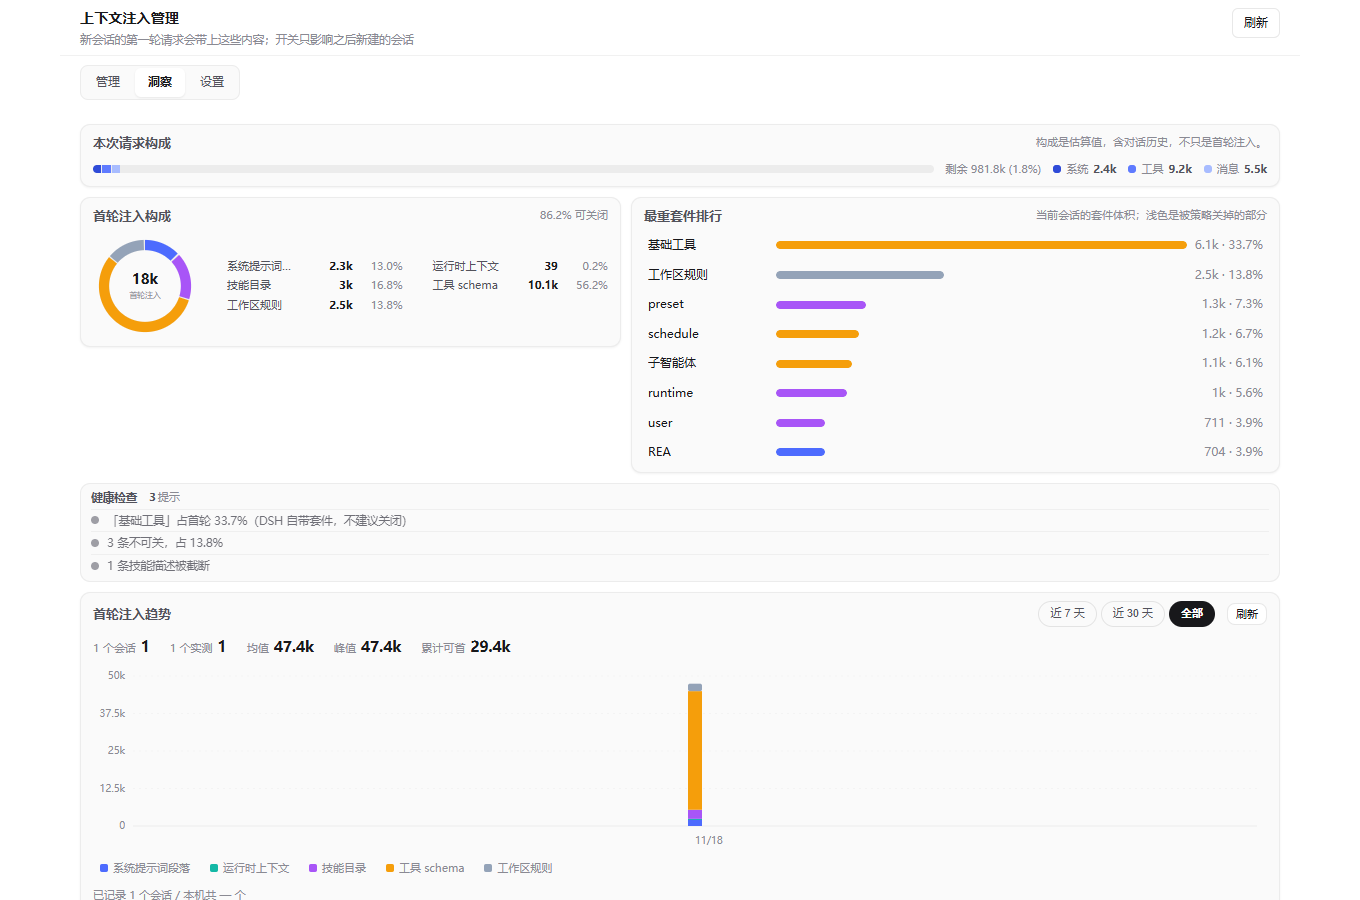
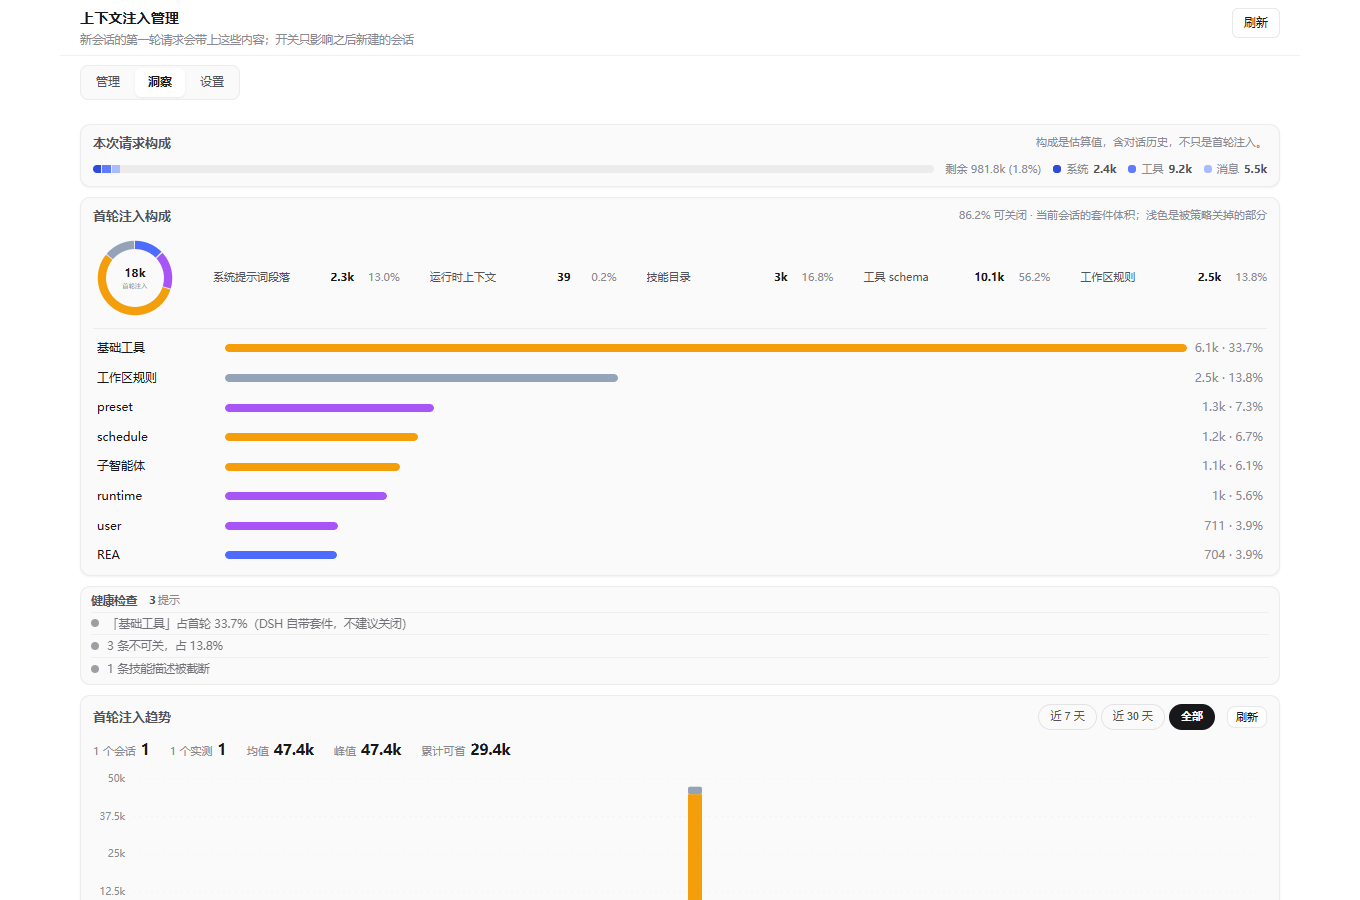
style(insights): 环图与排行合成一张卡、图例一行五列、修 0 条提示 (2.2.7)
[dsh:session=cd521c01] [dida:6afcf57ae4b014475ea3a12a]

diff --git a/client.js b/client.js
@@ -815,6 +815,13 @@ body[data-ds-dark-theme] .ci-root{
 .ci-manage-head .sp{flex:1 1 auto}
 .ci-donut-compact{gap:10px}
 .ci-donut-legend-grid{display:grid;grid-template-columns:repeat(2,minmax(0,1fr));gap:2px 14px}
+/* the ring row sits on top of the ranking inside one card: side by side the two
+   columns never match in height, and the ring's legend gets squeezed */
+.ci-compose-top{display:flex;align-items:center;gap:16px 20px;min-width:0;padding:2px 0 8px;border-bottom:1px solid var(--ci-line2)}
+.ci-compose-top .ci-donut-legend{flex:1 1 auto;min-width:0}
+.ci-compose-top .ci-donut-legend-grid{grid-template-columns:repeat(auto-fit,minmax(190px,1fr))}
+.ci-compose-top .ci-donut-row{grid-template-columns:10px minmax(0,1fr) minmax(44px,auto) 40px}
+@container (max-width:720px){.ci-compose-top{flex-wrap:wrap}}
 /* settings: one hairline splits two questions inside a card */
 .ci-card>.ci-seg{align-self:flex-start}
 .ci-rule{height:1px;background:var(--ci-line2);margin:2px 0 4px}
@@ -2552,7 +2559,9 @@ body[data-ds-dark-theme] .ci-root{
             ? h('div', { className: 'ci-health-allclear' }, t('v2.healthAllClear'))
             : null,
           actionable.map((check, index) => checkRow(check, `action:${index}`, true)),
-          !quiet || countOnly > 0
+          // The fold only exists when there is something folded. With one
+          // actionable row and no notes it used to read "还有 0 条提示".
+          notes.length > 0 && (quiet ? countOnly > 0 : true)
             ? h(
                 'button',
                 {
@@ -2964,7 +2973,7 @@ body[data-ds-dark-theme] .ci-root{
         )
       }
 
-      function HeaviestSuites({ snapshot, t, onPickSuite }) {
+      function SuitesRanking({ snapshot, t, onPickSuite }) {
         const groups = Array.isArray(snapshot.groups) ? snapshot.groups : []
         const itemsByGroup = new Map()
         for (const item of snapshot.items) {
@@ -2991,41 +3000,35 @@ body[data-ds-dark-theme] .ci-root{
           .slice(0, 8)
         const max = rows.reduce((value, row) => Math.max(value, Number(row.tokens) || 0), 1)
         const total = Math.max(1, effectiveTotalOf(snapshot))
+        if (rows.length === 0) return h('div', { className: 'ci-note' }, t('v2.heaviestEmpty'))
         return h(
           'div',
-          { className: 'ci-card' },
-          h('div', { className: 'ci-cardhead' }, h('h2', null, t('v2.heaviestTitle')), h('span', { className: 'sp' }), h('span', { className: 'hint' }, t('v2.heaviestHint'))),
-          rows.length === 0
-            ? h('div', { className: 'ci-note' }, t('v2.heaviestEmpty'))
-            : h(
-                'div',
-                { className: 'ci-bars' },
-                rows.map((group) =>
-                  h(
-                    'button',
-                    {
-                      type: 'button',
-                      className: 'ci-barrow ci-barrow-btn' + (group.effective === 0 ? ' off' : ''),
-                      key: group.id,
-                      onClick: onPickSuite ? () => onPickSuite(groupLabelOf(t, group)) : undefined,
-                      title: `${group.label} · ${t('total')} ${digits(group.tokens)} · ${t('after')} ${digits(group.effective)}`,
-                    },
-                    h('span', { className: 'n' }, groupLabelOf(t, group)),
-                    h(
-                      'span',
-                      { className: 'ci-bar-track', style: { width: `${Math.max(2, ((Number(group.tokens) || 0) / max) * 100)}%` } },
-                      h('span', {
-                        className: 'ci-bar-fill',
-                        style: {
-                          width: `${group.tokens === 0 ? 0 : Math.max(0, Math.min(100, (group.effective / group.tokens) * 100))}%`,
-                          background: COLOR[group.channel],
-                        },
-                      }),
-                    ),
-                    h('span', { className: 't', style: { textAlign: 'right' } }, `${token(group.effective)} · ${pctText(group.effective, total)}`),
-                  ),
-                ),
+          { className: 'ci-bars' },
+          rows.map((group) =>
+            h(
+              'button',
+              {
+                type: 'button',
+                className: 'ci-barrow ci-barrow-btn' + (group.effective === 0 ? ' off' : ''),
+                key: group.id,
+                onClick: onPickSuite ? () => onPickSuite(groupLabelOf(t, group)) : undefined,
+                title: `${group.label} · ${t('total')} ${digits(group.tokens)} · ${t('after')} ${digits(group.effective)}`,
+              },
+              h('span', { className: 'n' }, groupLabelOf(t, group)),
+              h(
+                'span',
+                { className: 'ci-bar-track', style: { width: `${Math.max(2, ((Number(group.tokens) || 0) / max) * 100)}%` } },
+                h('span', {
+                  className: 'ci-bar-fill',
+                  style: {
+                    width: `${group.tokens === 0 ? 0 : Math.max(0, Math.min(100, (group.effective / group.tokens) * 100))}%`,
+                    background: COLOR[group.channel],
+                  },
+                }),
               ),
+              h('span', { className: 't', style: { textAlign: 'right' } }, `${token(group.effective)} · ${pctText(group.effective, total)}`),
+            ),
+          ),
         )
       }
 
@@ -3187,43 +3190,40 @@ body[data-ds-dark-theme] .ci-root{
             ),
             h(RequestStrip, { snapshot, t, bare: true }),
           ),
-          // 2 — 重量落在哪
+          // 2 — 重量落在哪。环和排行是一张卡、上下两段：分成两张左右并排时，
+          // 高度差在左栏留下一个洞，图例也被挤成两窄列、标签全被截断。
           h(
             'div',
-            { className: 'ci-grid2' },
+            { className: 'ci-card' },
             h(
               'div',
-              { className: 'ci-card' },
+              { className: 'ci-cardhead' },
+              h('h2', null, t('injectionComposition')),
+              h('span', { className: 'sp' }),
+              h('span', { className: 'hint' }, `${totals.savablePercent}% ${t('savable')} · ${t('v2.heaviestHint')}`),
+            ),
+            h(
+              'div',
+              { className: 'ci-compose-top' },
+              h(Donut, { rows: channels, t, size: 84 }),
               h(
                 'div',
-                { className: 'ci-cardhead' },
-                h('h2', null, t('injectionComposition')),
-                h('span', { className: 'sp' }),
-                h('span', { className: 'hint' }, `${totals.savablePercent}% ${t('savable')}`),
-              ),
-              h(
-                'div',
-                { className: 'ci-donut' },
-                h(Donut, { rows: channels, t, size: 104 }),
-                h(
-                  'div',
-                  { className: 'ci-donut-legend ci-donut-legend-grid' },
-                  channels
-                    .filter((channel) => channel.tokens > 0)
-                    .map((channel) =>
-                      h(
-                        'div',
-                        { className: 'ci-donut-row', key: channel.id },
-                        h(Dot, { channel: channel.id }),
-                        h('span', { className: 'n' }, t(channel.id)),
-                        h('b', null, token(channel.tokens)),
-                        h('span', { className: 'p' }, `${pctText(channel.tokens, shareOf)}`),
-                      ),
+                { className: 'ci-donut-legend ci-donut-legend-grid' },
+                channels
+                  .filter((channel) => channel.tokens > 0)
+                  .map((channel) =>
+                    h(
+                      'div',
+                      { className: 'ci-donut-row', key: channel.id },
+                      h(Dot, { channel: channel.id }),
+                      h('span', { className: 'n' }, t(channel.id)),
+                      h('b', null, token(channel.tokens)),
+                      h('span', { className: 'p' }, `${pctText(channel.tokens, shareOf)}`),
                     ),
-                ),
+                  ),
               ),
             ),
-            h(HeaviestSuites, { snapshot, t, onPickSuite }),
+            h(SuitesRanking, { snapshot, t, onPickSuite }),
           ),
           // 3 — 能省什么 / 有没有问题
           h(HealthStrip, { health, t, v2: true, snapshot, act, onOpenContent, onOpenTab }),

diff --git a/CHANGELOG.md b/CHANGELOG.md
@@ -1,5 +1,26 @@
 # Changelog
 
+## 2.2.7 — 2026-11-19
+
+### Changed
+
+- **The ring and the ranking are one card again**, stacked instead of side by side. As two cards the
+  ranking was 440px tall and the ring 300px, so the left column ended in a visible hole, and the
+  ring's legend was squeezed into two 200px columns that clipped every label to "系统提…". Now the
+  ring sits in a header strip with the five channel figures in one row, a hairline separates it from
+  the ranking below, and the whole block is one card.
+- **The legend no longer ellipsises channel names.** The row grid gave the label 76px where the text
+  needed 77, so Chrome drew an ellipsis on every name. The strip widens the label to 91px.
+
+### Fixed
+
+- **The health strip said "还有 0 条提示"** when it had one actionable row and nothing folded.
+
+### Verification
+
+- `node --test` 223/223; `node scripts/self-audit.mjs --strict` 7/7, 0 warnings.
+- Legend measured: five rows of 203px, label 91px for 77px of text, `clipped: false` on all five.
+
 ## 2.2.6 — 2026-11-18
 
 ### Changed
